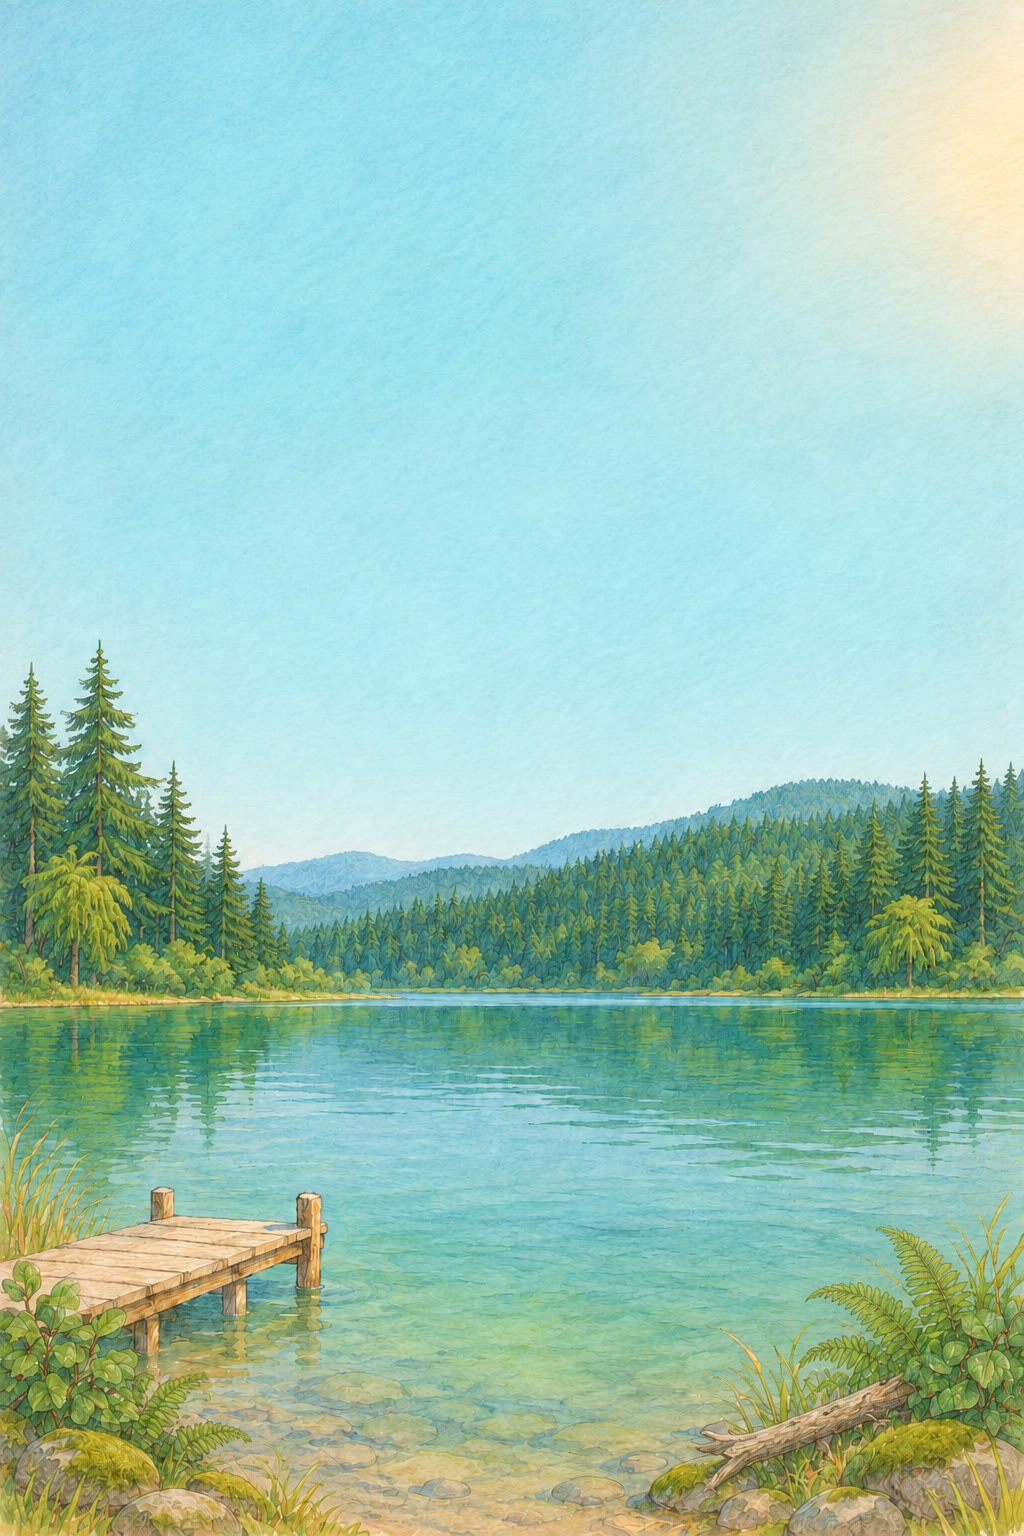
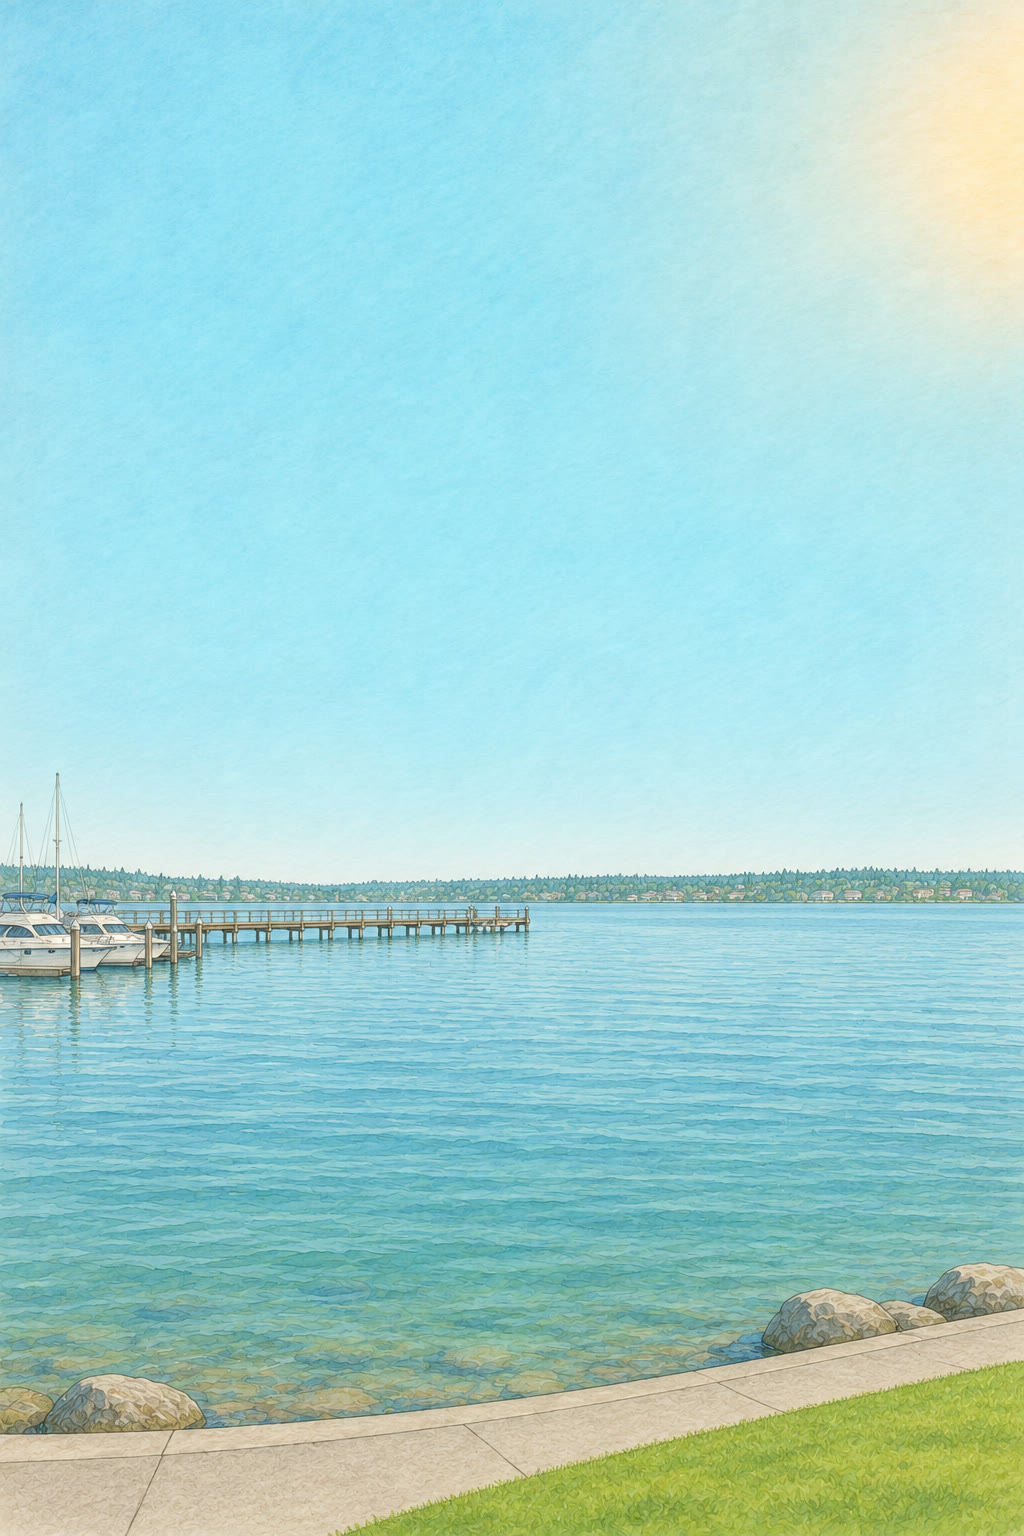
Use Moss Bay pavilion-area watercolor backgrounds

diff --git a/app.js b/app.js
@@ -51,7 +51,7 @@ function renderWeather(data) {
   $('rain-meter').style.width = `${outlook.chance ?? 0}%`;
   $('rain-card').title = 'Maximum hourly precipitation probability in the next 12 hours';
   renderBackgrounds(c.code, c.isDay);
-  $('landscape').setAttribute('aria-label', `Watercolor illustration: ${view.label.toLowerCase()} over a Pacific Northwest lake`);
+  $('landscape').setAttribute('aria-label', `Watercolor illustration: ${view.label.toLowerCase()} over Moss Bay from the Marina Park pavilion area in Kirkland`);
   $('hourly').innerHTML = hours.map((hour,i) => `<div class="hour"><span class="time">${i === 0 && !saved ? 'NOW' : localTime(hour.time,{hour:'numeric'}).replace(' ','')}</span>${icon(condition(hour.code,hour.isDay).icon)}<span class="hour-temp">${rounded(hour.temp)}°</span><span class="rain-chance" aria-label="${rounded(hour.chance)} percent chance of precipitation">${rounded(hour.chance)}%</span></div>`).join('');
   $('daily').innerHTML = days.map((day,i) => {
     const name = i === 0 && !saved ? 'Today' : localTime(day.time,{weekday:'short'});

diff --git a/docs/app.js b/docs/app.js
@@ -51,7 +51,7 @@ function renderWeather(data) {
   $('rain-meter').style.width = `${outlook.chance ?? 0}%`;
   $('rain-card').title = 'Maximum hourly precipitation probability in the next 12 hours';
   renderBackgrounds(c.code, c.isDay);
-  $('landscape').setAttribute('aria-label', `Watercolor illustration: ${view.label.toLowerCase()} over a Pacific Northwest lake`);
+  $('landscape').setAttribute('aria-label', `Watercolor illustration: ${view.label.toLowerCase()} over Moss Bay from the Marina Park pavilion area in Kirkland`);
   $('hourly').innerHTML = hours.map((hour,i) => `<div class="hour"><span class="time">${i === 0 && !saved ? 'NOW' : localTime(hour.time,{hour:'numeric'}).replace(' ','')}</span>${icon(condition(hour.code,hour.isDay).icon)}<span class="hour-temp">${rounded(hour.temp)}°</span><span class="rain-chance" aria-label="${rounded(hour.chance)} percent chance of precipitation">${rounded(hour.chance)}%</span></div>`).join('');
   $('daily').innerHTML = days.map((day,i) => {
     const name = i === 0 && !saved ? 'Today' : localTime(day.time,{weekday:'short'});

diff --git a/docs/index.html b/docs/index.html
@@ -23,7 +23,7 @@
   <a class="skip-link" href="#forecast">Skip to forecast</a>
   <main class="weather-app" data-weather="cloudy">
     <section class="current" aria-labelledby="current-title">
-      <div class="landscape" id="landscape" role="img" aria-label="Watercolor illustration of a Pacific Northwest lake"></div>
+      <div class="landscape" id="landscape" role="img" aria-label="Watercolor interpretation of Moss Bay from Marina Park in Kirkland"></div>
       <div class="weather-layer" id="weather-layer" aria-hidden="true"></div>
     <div class="status-bar"><span class="status-dot"></span><span id="data-status">LOADING WEATHER</span><span class="credits"><a href="https://open-meteo.com/" aria-label="Weather data by Open-Meteo">Open-Meteo</a> · <a href="https://atmosphere.copernicus.eu/" aria-label="Air quality data by CAMS via Open-Meteo">CAMS</a></span></div>
       <header class="location-header">

diff --git a/index.html b/index.html
@@ -23,7 +23,7 @@
   <a class="skip-link" href="#forecast">Skip to forecast</a>
   <main class="weather-app" data-weather="cloudy">
     <section class="current" aria-labelledby="current-title">
-      <div class="landscape" id="landscape" role="img" aria-label="Watercolor illustration of a Pacific Northwest lake"></div>
+      <div class="landscape" id="landscape" role="img" aria-label="Watercolor interpretation of Moss Bay from Marina Park in Kirkland"></div>
       <div class="weather-layer" id="weather-layer" aria-hidden="true"></div>
     <div class="status-bar"><span class="status-dot"></span><span id="data-status">LOADING WEATHER</span><span class="credits"><a href="https://open-meteo.com/" aria-label="Weather data by Open-Meteo">Open-Meteo</a> · <a href="https://atmosphere.copernicus.eu/" aria-label="Air quality data by CAMS via Open-Meteo">CAMS</a></span></div>
       <header class="location-header">

diff --git a/docs/sw.js b/docs/sw.js
@@ -1,5 +1,5 @@
 // Generated as sw.js by node build.mjs. Its asset hash changes on every build change.
-const BUILD = '8209394d537cb59b';
+const BUILD = 'ef06b3b283899d71';
 const BASE = new URL('./', self.location.href);
 const PREFIX = `pwa-weather:${BASE.pathname}:`;
 const SHELL = `${PREFIX}shell:${BUILD}`;

diff --git a/sw.js b/sw.js
@@ -1,5 +1,5 @@
 // Generated as sw.js by node build.mjs. Its asset hash changes on every build change.
-const BUILD = '8209394d537cb59b';
+const BUILD = 'ef06b3b283899d71';
 const BASE = new URL('./', self.location.href);
 const PREFIX = `pwa-weather:${BASE.pathname}:`;
 const SHELL = `${PREFIX}shell:${BUILD}`;

diff --git a/artwork/README.md b/artwork/README.md
@@ -1,7 +1,17 @@
-# Watercolor weather artwork
+# Moss Bay watercolor background study
 
-Two original 1024 × 1536 Pacific Northwest lake illustrations were generated using the built-in image generation tool, then optimized as JPEGs in `assets/landscape/`. The approved original project concept images were the editing references; exact prompts are recorded in `prompts.json`. Their skies are intentionally empty so the app can compose weather independently.
+Two original 1024 × 1536 watercolor-and-pencil canvases interpret an eye-level, generally west-facing view across Moss Bay from the water-facing pavilion area at Marina Park in Kirkland. They replace the earlier generic wooded-lake subject. Open water and a low distant urban/wooded shore replace the enclosing forest; the marina and long pier enter from the left, with a curved concrete waterfront edge and boulders near the viewer.
 
-The setting is illustrative: evergreen foothills, mossy rocks, fern fronds, broad-leaved evergreen shrubs, a modest landing and driftwood. It is not a depiction of a measured viewpoint or observed ground conditions. Original transparent SVG weather layers are generated by `scripts/generate-backgrounds.mjs`; the matching fourteen weather symbols are in `weather-icons.mjs`.
+The exact standing position and camera bearing inside the pavilion are not verified. Public photos were inspected for broad geographic relationships. This is an informed portrait illustration, not a surveyed reconstruction. No complete pavilion is placed in front of the viewer, no large centered Seattle skyline is invented, and no unverified Mount Rainier or Olympic peak is added. Buildings, boats, dock details and nighttime window lights are simplified and illustrative.
 
-The raster art uses watercolor washes, pencil contours and warm paper. Sky objects and precipitation remain lightweight code-native shapes with subtle washes. The two canvases and all sixty weather layers total less than 1 MB. Rendering is static, with no animation, flashing lightning, SVG filters or remote dependencies.
+## References inspected
+
+- City of Kirkland, [Marina Park](https://www.kirklandwa.gov/Government/Departments/Parks-and-Community-Services/Find-a-Park/Marina-Park), including its [pavilion photograph](https://www.kirklandwa.gov/files/assets/public/v/1/images/marinapark3retouched.jpg?w=1200): pavilion placement, curved seawall and shoreline boulders.
+- David Schott, [Moss Bay, Kirkland](https://www.flickr.com/photos/dave_mcmt/31843815086/), photographed July 29, 2016: explicitly described by its photographer as a panorama from Marina Park across Moss Bay. Shows broad open water, the marina/pier to the left and the pavilion-side shore to the right.
+- [Kirkland Moss Bay panorama](https://bitfabrik.io/blog/index.php?id=117), with [image](https://bitfabrik.io/blog/dateien/Kirkland-Moss-Bay/P1330474eq.jpg): developed waterfront, marina and distant low shore. Its orange annotation and people are not part of the new illustration.
+- Explore Kirkland, [Marina Park](https://www.explorekirkland.com/directory/marina-park/): official tourism context identifying the beach, pavilion and Lake Washington/Seattle views.
+
+Reference photo bytes remain in ignored local research artifacts and are not included in the application or review deliverable. The generated art synthesizes the geographic features in the previously approved original watercolor treatment. Exact built-in image-generation/editing prompts are in `prompts.json`; the night canvas was derived from the new day canvas to retain the same geometry.
+
+The JPEG filenames are unchanged for compatibility with the existing resolver. Their skies remain intentionally empty: sun/moon, stars, cloud, fog and precipitation stay in the original separate static layers. Both the information layout and weather/day-night behavior remain unchanged. The backdrop is a fixed personal illustration; the app still uses the forecast location and device coordinates for weather data.
+

diff --git a/README.md b/README.md
@@ -34,7 +34,7 @@ Weather attribution: [Open-Meteo](https://open-meteo.com/). Air-quality attribut
 
 ## Design and scope
 
-Watercolor-and-pencil style; a full-screen Pacific Northwest lake scene with current weather, detail cards, and a horizontally scrolling five-day forecast. Hourly weather and a plain sunrise/sunset time row are included in the same opening overview. The location row sits above current conditions. There is no footer or setup section. Short screens and larger text can grow the page to avoid clipping data.
+Watercolor-and-pencil style; a full-screen Moss Bay view interpreted from the Marina Park pavilion area in Kirkland with current weather, detail cards, and a horizontally scrolling five-day forecast. Hourly weather and a plain sunrise/sunset time row are included in the same opening overview. The location row sits above current conditions. There is no footer or setup section. Short screens and larger text can grow the page to avoid clipping data.
 
 No ads, analytics, login, settings screen, radar, alerts, or push notifications. Device location requires browser permission and HTTPS (or localhost during development).
 
@@ -63,7 +63,7 @@ Regenerate icons with `python3 scripts/generate-icons.py`, then rebuild. This re
 
 Review locally at http://127.0.0.1:4173/backgrounds.html. This development gallery is excluded from `docs/` and the production cache. Filters show condition families and day/night; each scene links to its landscape JPEG and transparent weather SVG.
 
-`assets/landscape/` contains two original 1024 × 1536 watercolor-and-pencil Pacific Northwest lake canvases, optimized as JPEGs. Both have quiet, empty skies. The same fir-covered slopes, ferns, mossy shoreline and wooden landing stay in place while the weather changes. `artwork/` records the generation prompts and design notes. The launcher icons retain their existing pixel artwork.
+`assets/landscape/` contains two original 1024 × 1536 watercolor-and-pencil Pacific Northwest lake canvases, optimized as JPEGs. Both have quiet, empty skies. The same low distant urban shoreline, left-side marina and pier, open water and curved foreground seawall stay in place while the weather changes. The view is an informed interpretation of the west-facing pavilion area, not an exact surveyed camera position. `artwork/` records the generation prompts and design notes. The launcher icons retain their existing pixel artwork.
 
 `weather-scenes.mjs` is the shared condition catalog and allowlisted resolver. `backgroundAssets(code, isDay)` returns a shared day/night landscape and the matching transparent atmosphere layer. Unknown codes use an empty weather layer rather than inventing conditions. `scripts/generate-backgrounds.mjs` builds 60 lightweight SVG layers: 29 codes plus fallback, each by day and night. Sun, moon/stars, organic cloud washes, fog bands, drizzle/rain, snow/grains, freezing precipitation, static lightning and hail compose according to the existing code and intensity. Showers have gaps and heavier precipitation has denser marks. Moon shape and edge frost are illustrative; the artwork does not claim measured moon phase, ground ice or snow depth. There is no snowfall accumulation on the base image.
 
